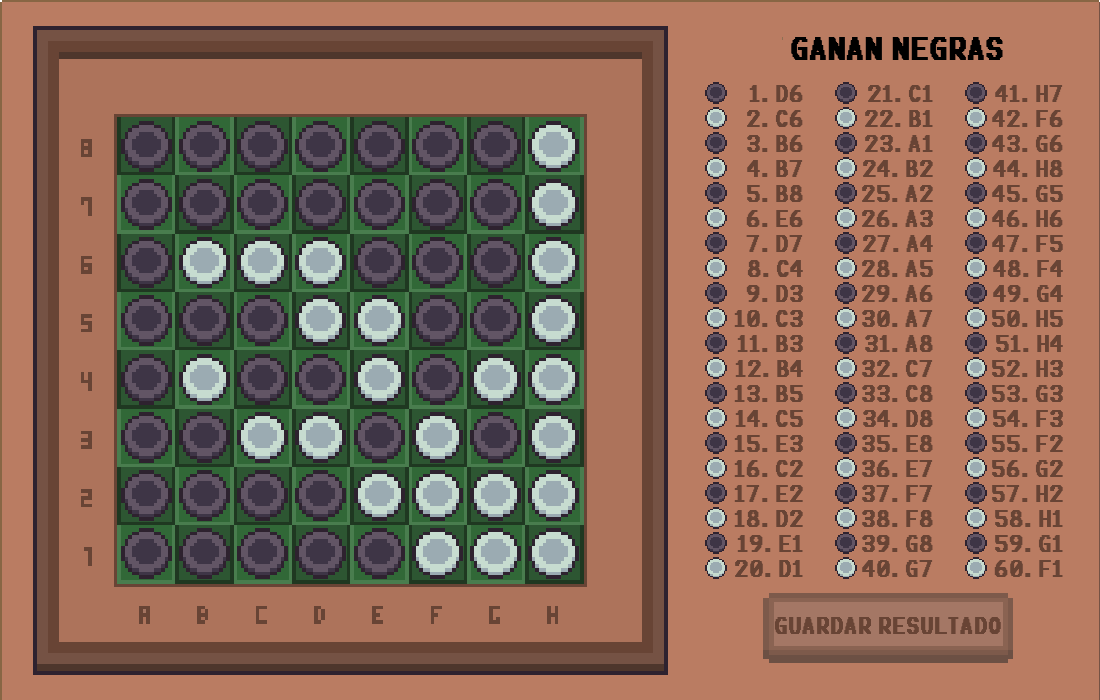
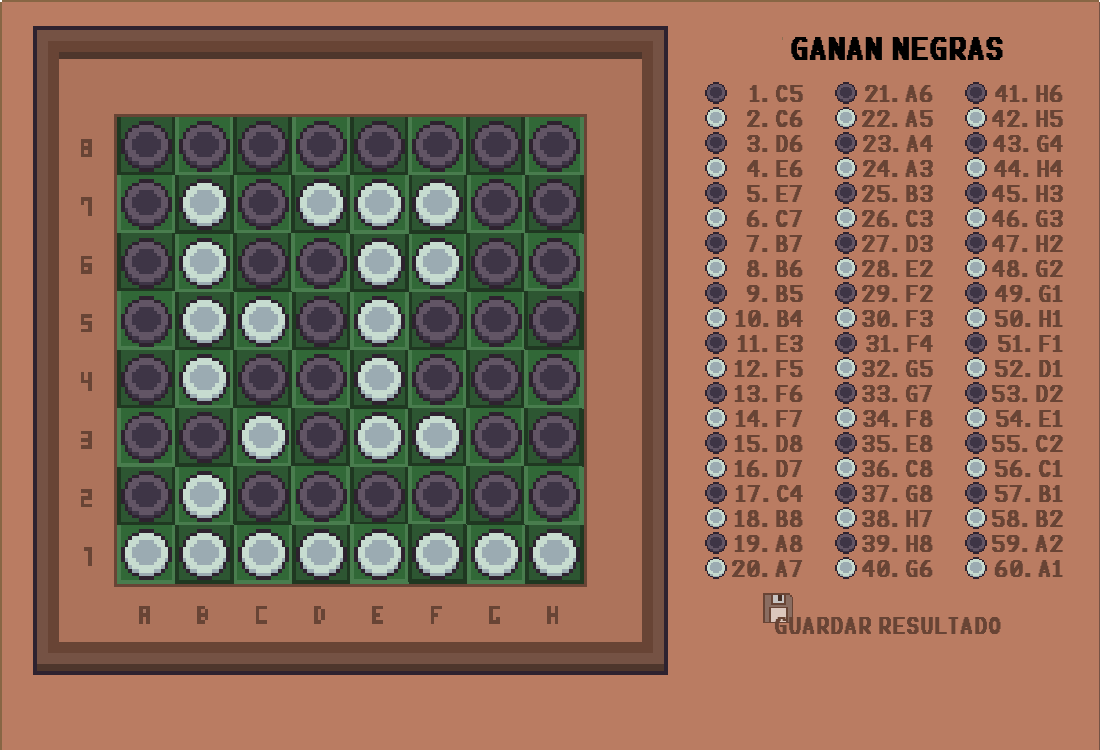
Nuevo botón de guardado

diff --git a/src/interfaces/InterfazOthello.py b/src/interfaces/InterfazOthello.py
@@ -34,6 +34,7 @@ class InterfazOthello ():
     _asset_tapar_texto: pg.image
     _asset_celda_oscura : pg.image
     _asset_celda_clara : pg.image
+    _asset_guardar_partida: pg.image
 
     #Botones
     _assetBoton: pg.image
@@ -63,7 +64,7 @@ class InterfazOthello ():
         self._ventana = self.configurarVentana()
 
         #Cargar assets de la interfaz
-        self._asset_fondo, self._asset_tablero, self._asset_blanca_turno, self._asset_negra_turno, self._asset_blanca_movimiento, self._asset_negra_movimiento, self._asset_tapar_texto, self._assetBoton, self._assetBotonEncima, self._asset_celda_oscura, self._asset_celda_clara = self.cargarImagenes()
+        self._asset_fondo, self._asset_tablero, self._asset_blanca_turno, self._asset_negra_turno, self._asset_blanca_movimiento, self._asset_negra_movimiento, self._asset_tapar_texto, self._assetBoton, self._assetBotonEncima, self._asset_celda_oscura, self._asset_celda_clara, self._asset_guardar_partida = self.cargarImagenes()
 
         #Incializar assets fichas
         Ficha.cargarImagenes()
@@ -149,7 +150,9 @@ class InterfazOthello ():
         _asset_celda_oscura = self.imagen(c.IMG_CELDA_OSCURA,c.DIM_CELDA)
         _asset_celda_clara = self.imagen(c.IMG_CELDA_CLARA,c.DIM_CELDA)
 
-        return asset_fondo, asset_tablero, _asset_blanca_turno, _asset_negra_turno, _asset_blanca_movimiento, _asset_negra_movimiento, _asset_tapar_texto, _asset_boton, _asset_boton_encima, _asset_celda_oscura, _asset_celda_clara
+        _asset_guardar_partida = self.imagen(c.IMG_GUARDAR_PARTIDA,c.DIM_BOTON_GUARDADO)
+
+        return asset_fondo, asset_tablero, _asset_blanca_turno, _asset_negra_turno, _asset_blanca_movimiento, _asset_negra_movimiento, _asset_tapar_texto, _asset_boton, _asset_boton_encima, _asset_celda_oscura, _asset_celda_clara, _asset_guardar_partida
     
     def imagen(self,ruta,dim):
         """Obtener imagen de un asset"""
@@ -438,12 +441,15 @@ class InterfazOthello ():
         #Escribir texto del ganador
         self.dibujarTextoEspaciadoGanador(textoGanador,c.ESPACIADO_GANADOR,color)
 
-        #Generar botón de guardado
-        self._botonGuardar = pg.Rect(c.LOCALIZACION_CENTRO_DERECHA-120,c.FIN_TABLERO['y']+10, c.ANCHURA_BOTON_GUARDADO, c.ALTURA_BOTON_GUARDADO)
-        self.dibujaBoton(self._botonGuardar,self._assetBoton, c.TEXTO_BOTON_GUARDADO)
+        #Generar botón de guardado 
+        #self._botonGuardar = pg.Rect(c.LOCALIZACION_CENTRO_DERECHA-120,c.FIN_TABLERO['y']+10, c.ANCHURA_BOTON_GUARDADO, c.ALTURA_BOTON_GUARDADO)
+        #self.dibujaBoton(self._botonGuardar,self._assetBoton, c.TEXTO_BOTON_GUARDADO)
+
+        self._botonGuardar = pg.Rect(c.LOCALIZACION_CENTRO_DERECHA+120,c.FIN_TABLERO['y']+30, c.DIM_BOTON_GUARDADO, c.DIM_BOTON_GUARDADO)
+        self.dibujaBoton(self._botonGuardar,self._asset_guardar_partida, " ")
 
         #Escribir indicador del botón 
-        self.dibujarTextoEspaciadoBotones(c.TEXTO_BOTON_GUARDADO,c.ESPACIADO_BOTONES,c.MARRON_RGB,self._botonGuardar.x,self._botonGuardar.y)
+        #self.dibujarTextoEspaciadoBotones(c.TEXTO_BOTON_GUARDADO,c.ESPACIADO_BOTONES,c.MARRON_RGB,self._botonGuardar.x,self._botonGuardar.y)
 
         #Actualizar ventana
         pg.display.update()  
@@ -501,7 +507,7 @@ class InterfazOthello ():
 
                 #Ocultar cursor dentro del tablero
                 if (self.posicionDentroDelTablero(pos)):
-                    pg.mouse.set_visible(False)
+                    pg.mouse.set_visible(True)
                 else: 
                     pg.mouse.set_visible(True)
 

diff --git a/src/Constantes.py b/src/Constantes.py
@@ -4,7 +4,7 @@ TITULO_INTERFAZ = "Othello"
 TITULO = "OTHELLO"
 
 #Dimensiones
-VENTANA_LARGO = 700 
+VENTANA_LARGO = 700
 VENTANA_ANCHO = 1100
 ORIGEN_MARGO = {'x':30,'y':30}
 ORIGEN_TABLERO = {'x':117,'y':117}
@@ -16,6 +16,7 @@ DIM_CELDA = DIM_TABLERO / CELDAS
 DIM_FICHA = DIM_CELDA
 LOCALIZACION_CENTRO_DERECHA =  FIN_MARCO['x'] + ((VENTANA_ANCHO - FIN_MARCO['x']) //2 )
 DIM_TAPA_TEXTO = {'x':200,'y':45}
+DIM_BOTON_GUARDADO = 45
 
 #Turno 
 TURNO = "TURNO:"
@@ -53,6 +54,7 @@ IMG_BOTON_ENCIMA = "../Assets/Boton-Encima.png"
 IMG_TAPA_TEXTO = "../Assets/Tapar-Texto.png"
 IMG_CELDA_OSCURA = "../Assets/Celda-Oscura.png"
 IMG_CELDA_CLARA = "../Assets/Celda-Clara.png"
+IMG_GUARDAR_PARTIDA = "../Assets/Guardar-Partida.png"
 
 #Fichas
 FICHA_BLANCA = 'blanca'
